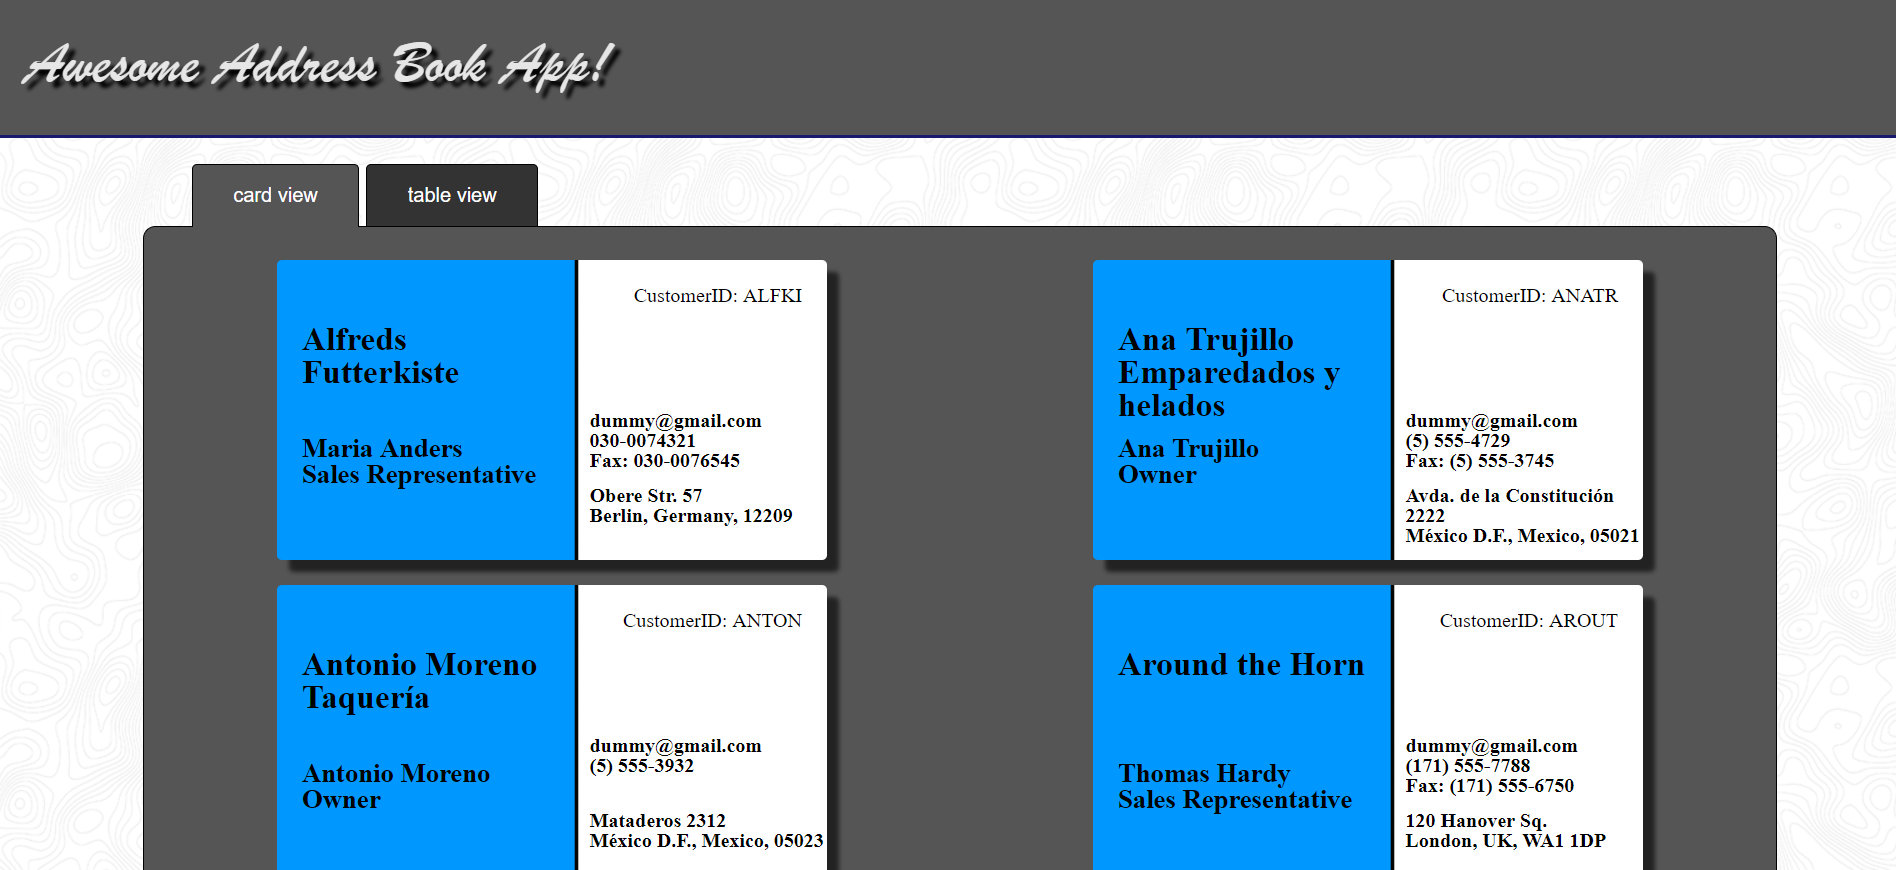
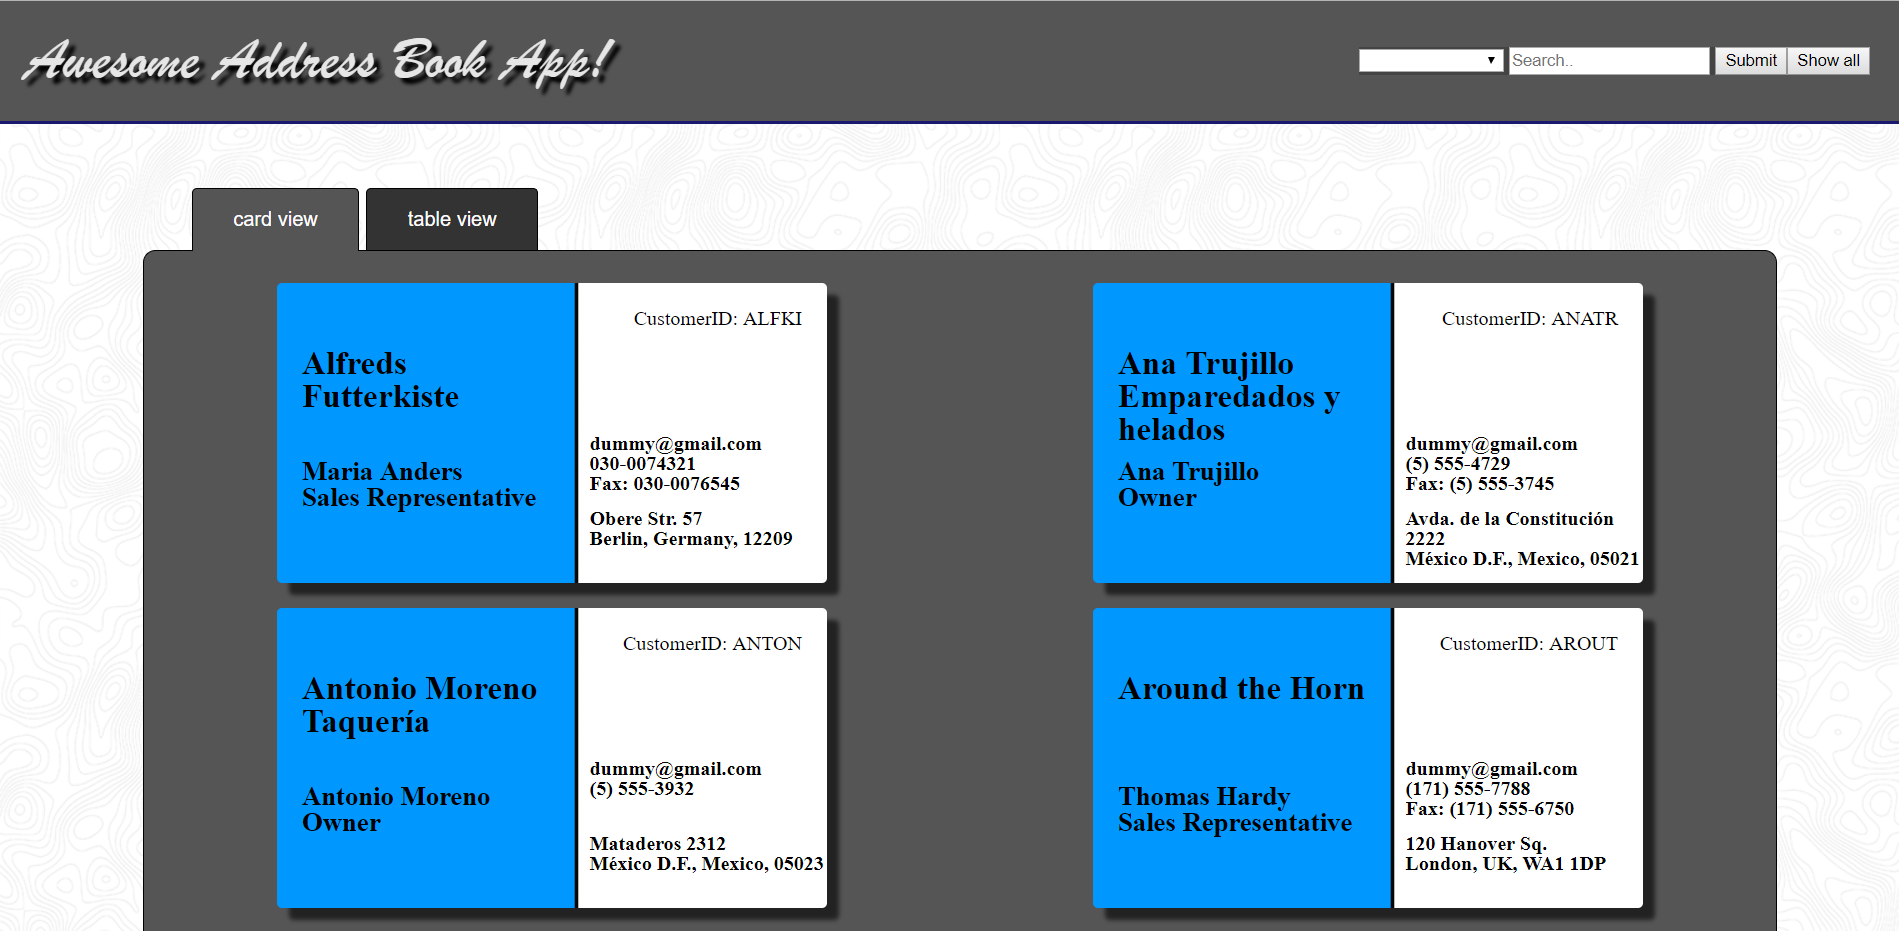
updated readme

diff --git a/addressbook/contactApp/startPage/startPageTemplate.html b/addressbook/contactApp/startPage/startPageTemplate.html
@@ -1,7 +1,7 @@
 <div>
   <span class="top">
   <div class="headline">
-    <h2 id="heading">
+    <h2 id="heading" ng-style="{'margin-left': '20px'}">
     Awesome Address Book App!
   </h2>
     <div class="searchContain">
@@ -28,9 +28,10 @@
   <div class="contain">
     <table style="width:100%" ng-style="{'float': 'right'}"ng-show="startCtrl.control.response == true">
       <tr>
-        <th id='CompanyName' ng-model="symbol" ng-click="startCtrl.control.clicked = startCtrl.startPageService.contactSort($event, startCtrl.control.clicked[1])">CompanyName{{'CompanyName' === startCtrl.control.clicked[0] ? startCtrl.control.clicked[1] : ''}}</th>
-        <th id='ContactName' ng-click="startCtrl.control.clicked = startCtrl.startPageService.contactSort($event, startCtrl.control.clicked[1])">ContactName{{'ContactName' === startCtrl.control.clicked[0] ? startCtrl.control.clicked[1] : ''}}</th>
-        <th id='ContactTitle' ng-click="startCtrl.control.clicked = startCtrl.startPageService.contactSort($event, startCtrl.control.clicked[1])">ContactTitle{{'ContactTitle' === startCtrl.control.clicked[0] ? startCtrl.control.clicked[1] : ''}}</th>
+        <th id='CustomerID' ng-click="startCtrl.control.clicked = startCtrl.startPageService.contactSort($event, startCtrl.control.clicked[1])">CustomerID{{'CustomerID' === startCtrl.control.clicked[0] ? startCtrl.control.clicked[1] : ''}}</th>
+        <th id='CompanyName' ng-click="startCtrl.control.clicked = startCtrl.startPageService.contactSort($event, startCtrl.control.clicked[1])">Company{{'CompanyName' === startCtrl.control.clicked[0] ? startCtrl.control.clicked[1] : ''}}</th>
+        <th id='ContactName' ng-click="startCtrl.control.clicked = startCtrl.startPageService.contactSort($event, startCtrl.control.clicked[1])">Name{{'ContactName' === startCtrl.control.clicked[0] ? startCtrl.control.clicked[1] : ''}}</th>
+        <th id='ContactTitle' ng-click="startCtrl.control.clicked = startCtrl.startPageService.contactSort($event, startCtrl.control.clicked[1])">Title{{'ContactTitle' === startCtrl.control.clicked[0] ? startCtrl.control.clicked[1] : ''}}</th>
         <th id='Address' ng-click="startCtrl.control.clicked = startCtrl.startPageService.contactSort($event, startCtrl.control.clicked[1])">Address{{'Address' === startCtrl.control.clicked[0] ? startCtrl.control.clicked[1] : ''}}</th>
         <th id='City' ng-click="startCtrl.control.clicked = startCtrl.startPageService.contactSort($event, startCtrl.control.clicked[1])">City{{'City' === startCtrl.control.clicked[0] ? startCtrl.control.clicked[1] : ''}}</th>
         <th id='Email' ng-click="startCtrl.control.clicked = startCtrl.startPageService.contactSort($event, startCtrl.control.clicked[1])">Email{{'Email' === startCtrl.control.clicked[0] ? startCtrl.control.clicked[1] : ''}}</th>
@@ -40,6 +41,7 @@
         <th id='Fax' ng-click="startCtrl.control.clicked = startCtrl.startPageService.contactSort($event, startCtrl.control.clicked[1])">Fax{{'Fax' === startCtrl.control.clicked[0] ? startCtrl.control.clicked[1] : ''}}</th>
       </tr>
       <tr ng-repeat="contact in startCtrl.startPageService.dupe" ng-style="{'font-size': 'small', 'background-color': startCtrl.startPageService.indx.includes(contact.idx) ? 'yellow' : startCtrl.startPageService.colors($index)}"  ng-class="{'selected': startCtrl.startPageService.indx.includes($index)}">
+        <th>{{contact.CustomerID}}</th>
         <th>{{contact.CompanyName}}</th>
         <th>{{contact.ContactName}}</th>
         <th>{{contact.ContactTitle}}</th>

diff --git a/addressbook/master.css b/addressbook/master.css
@@ -94,7 +94,7 @@ tr:nth-child(even) {
 }
 .contain {
   display: flex;
-
+  padding-bottom: 20px;
   justify-content: space-around;
   background-color: #555555;
   padding-top: 1em;
@@ -178,11 +178,15 @@ tr:nth-child(even) {
   width: 100vw;
   justify-content: space-between;
 }
+
 .top{
   display: flex;
   background-color: #555555;
-  margin-bottom: 50px
+  margin-bottom: 50px;
+  border-bottom-style: solid;
+  border-bottom-color: 	#191970;
 }
+
 #heading {
   padding:0px;
   font-family: "Brush Script MT", cursive;
@@ -195,8 +199,6 @@ tr:nth-child(even) {
   color: rgb(230, 230, 230);
   text-shadow: 5px 5px 4px BLACK;
   background-color: #555555;
-  border-bottom-style: solid;
-  border-bottom-color: 	#191970;
 }
 .btnCtn{
   font-size: 1.5em;

diff --git a/README.md b/README.md
@@ -5,18 +5,18 @@
 * The user can click on one of the two tabs above the content section to switch between each view.
 ![usage pic](/Screenshot_2.png)
 ![usage pic](/Screenshot_3.png)
-* On the card view only 10 results are displayed to begin with. To see more you can click on the "show more contacts" button
+* On the card view only 10 results are displayed to begin with. To see more you can click on the "show more contacts" button. 
 ![usage pic](/Screenshot_4.png)
-
-## Getting started:
-
-* The simplest way to run this app is through python simple server which, for a simple app like this, is much easier than running it though node.
-* Assuming python is added to your system path, navigate to the app directory in commandline and type "python -m SimpleHTTPServer" for python2.x or "python -m http.server" if python3.x is installed. I always use 2.7 because python3 is garbage.
-* Now that the server is running simply go into your browser and navigate to http://localhost:"whatever port your server is on" in most cases it will be http://localhost:8000/. The site should be up and running at this point.
-* To close the server simply hit ctrl-c. Sometimes it will take a minute to close out but just give it a minute. If it complains just hit ctrl-c again or just close the commandline.
-![usage pic](/Screenshot_1.png)
+* In the table view the category names can be clicked on to sort the results in ascending order. Repeatedly clicking alternates between ascending and descending order.
+![usage pic](/Screenshot_7.png)
+![usage pic](/Screenshot_8.png)
+* The search bar and select box allows the user to refine the list of contacts to their specification. When a search is preformed the card view will contain only the contacts which match their search while the table view will show the original list with the matching rows highlighted. 
+![usage pic](/Screenshot_5.png)
+![usage pic](/Screenshot_6.png)
+* Should a user only want to search a specific category they can use the select box located to the immediate right of the searchbar. To return to the full list of contacts simply click on the "show all" button to the right of the search bar.
 
 
 ### Link:
 
 https://github.com/SamuelFinley/addressbook
+https://boiling-lowlands-88756.herokuapp.com/#/
